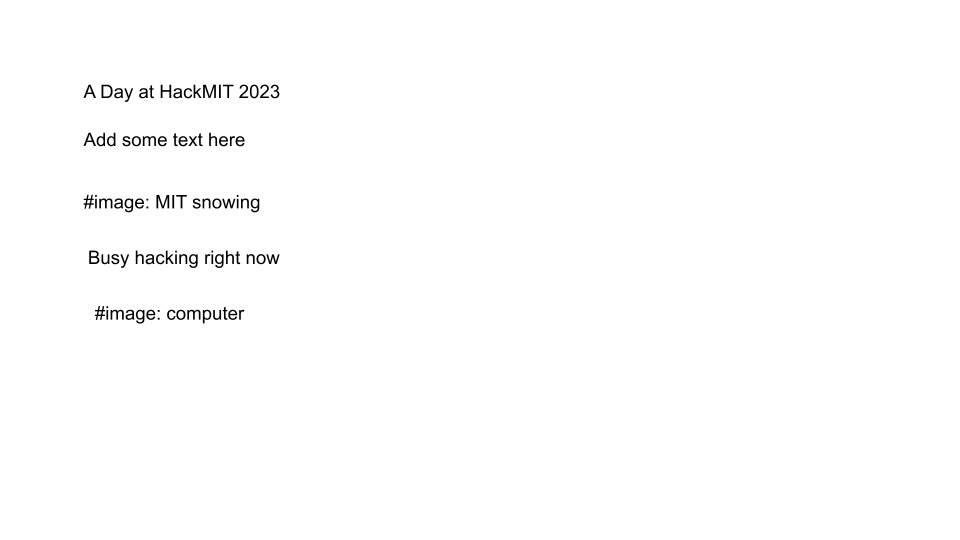
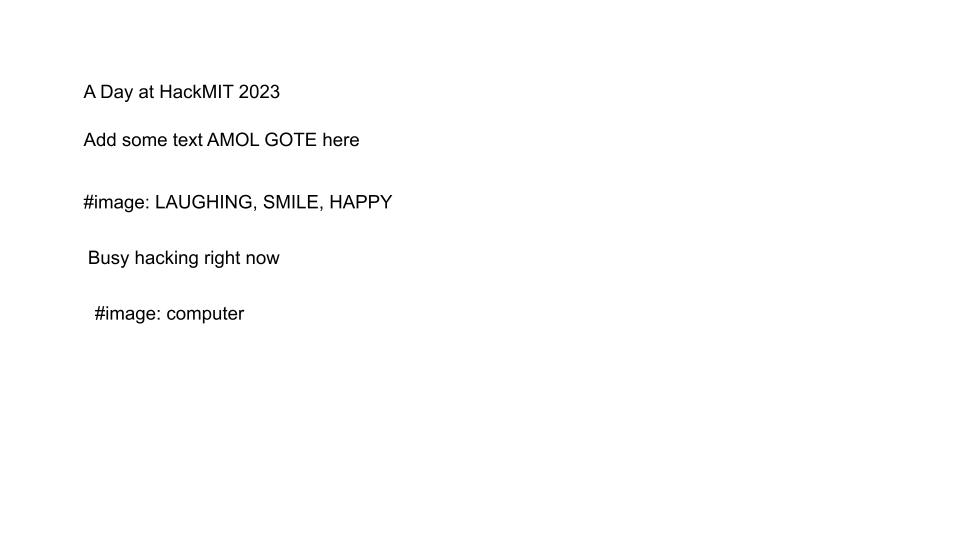
Added image to HTML generation

Changed region(s): [[0.1562, 0.3556, 0.4062, 0.3852], [0.2188, 0.237, 0.375, 0.2667]]

diff --git a/backend/sample_output.html b/backend/sample_output.html
@@ -1,4 +1,4 @@
 
         <html>
             <body>
-    <p>A Day at HackMIT 2023</p><p>Add some text here</p><img src='https://oaidalleapiprodscus.blob.core.windows.net/private/org-dqLUEDrMw0A2DtY4YxgXFBDn/user-q6vCipxIuFmQVunOX5YMfEt2/img-ang0ECWt2UFvkivJle9jxqFh.png?st=2023-09-16T18%3A58%3A20Z&se=2023-09-16T20%3A58%3A20Z&sp=r&sv=2021-08-06&sr=b&rscd=inline&rsct=image/png&skoid=6aaadede-4fb3-4698-a8f6-684d7786b067&sktid=a48cca56-e6da-484e-a814-9c849652bcb3&skt=2023-09-15T23%3A07%3A08Z&ske=2023-09-16T23%3A07%3A08Z&sks=b&skv=2021-08-06&sig=YvKlyvAxkZm%2B7Nnf0cSclx7inWIlFf94D7sGMoTncVk%3D'><p>Busy hacking right now</p><img src='https://oaidalleapiprodscus.blob.core.windows.net/private/org-dqLUEDrMw0A2DtY4YxgXFBDn/user-q6vCipxIuFmQVunOX5YMfEt2/img-nrr7nj7nLVbQGjsfHXfTvGaP.png?st=2023-09-16T18%3A58%3A26Z&se=2023-09-16T20%3A58%3A26Z&sp=r&sv=2021-08-06&sr=b&rscd=inline&rsct=image/png&skoid=6aaadede-4fb3-4698-a8f6-684d7786b067&sktid=a48cca56-e6da-484e-a814-9c849652bcb3&skt=2023-09-15T23%3A05%3A38Z&ske=2023-09-16T23%3A05%3A38Z&sks=b&skv=2021-08-06&sig=Gql4kX9d9tTEu%2BXCTJhW%2B5Ji6rbhDMuMKn6ORZJN7Qg%3D'></body></html>
+    <p>WEBSITE </p><img src='https://oaidalleapiprodscus.blob.core.windows.net/private/org-dqLUEDrMw0A2DtY4YxgXFBDn/user-q6vCipxIuFmQVunOX5YMfEt2/img-VV0I4NTZp2Exp4qTzUAhAlGB.png?st=2023-09-17T02%3A01%3A14Z&se=2023-09-17T04%3A01%3A14Z&sp=r&sv=2021-08-06&sr=b&rscd=inline&rsct=image/png&skoid=6aaadede-4fb3-4698-a8f6-684d7786b067&sktid=a48cca56-e6da-484e-a814-9c849652bcb3&skt=2023-09-16T23%3A21%3A40Z&ske=2023-09-17T23%3A21%3A40Z&sks=b&skv=2021-08-06&sig=3RkquU9gPlncqWVOFeoKRNOke/7FwTAt36V6GYU0u1Q%3D'></body></html>

diff --git a/backend/test_handwriting_to_html.py b/backend/test_handwriting_to_html.py
@@ -1,0 +1,126 @@
+import easyocr
+
+import json
+from pprint import pprint
+
+import time
+
+import cv2
+import numpy as np
+
+from src.render_functions import generate_img_tag, generate_p_tag, get_instructor
+
+
+with open("tempfile.json", "r") as jsonfile:
+    json_data = json.load(jsonfile)
+
+# pprint(json_data)
+
+
+reader = easyocr.Reader(['en']) # this needs to run only once to load the model into memory
+result = reader.readtext('gray.png')
+
+pprint(result)
+
+main_data_dict = {"data":[]}
+
+for item in result:
+    temp_dict = {}
+
+    pprint(item[0])
+
+    temp_dict["p1"] = item[0][0]
+    temp_dict["p2"] = item[0][1]
+    temp_dict["p3"] = item[0][2]
+    temp_dict["p4"] = item[0][3]
+
+    temp_dict["text"] = item[1]
+    temp_dict["confidence"] = item[2]
+
+    main_data_dict["data"].append(temp_dict)
+
+
+class Screen:
+
+    def __init__(self):
+        self.width = 2000
+        self.height = 2000
+        self.background_color = (255, 255, 255)
+
+image = np.ones((Screen().height, Screen().width, 3), dtype=np.uint8)* Screen().background_color
+
+for item in main_data_dict["data"]:
+    pprint(item)
+    pprint(item["text"])
+    pprint(item["p1"])
+    cv2.putText(image, item["text"], (int(item["p1"][0]), int(item["p1"][1])), cv2.FONT_HERSHEY_SIMPLEX, 1, color=(0,0,0))
+    image = image.astype(np.uint16)
+
+curr_string = ""
+
+main_texts_list = []
+
+for i in range(len(main_data_dict["data"])):
+
+    if main_data_dict["data"][i-1]["p4"][1] < main_data_dict["data"][i]["p1"][1]:
+        main_texts_list.append(curr_string)
+        curr_string=""
+
+        print("hi!")
+        # main_texts_list.append(main_data_dict["data"][i]["text"])
+    else:
+        # main_texts_list[-1] += f" {main_data_dict["data"][i]["text"]}"
+        # pass
+        pass
+    curr_string += f"{main_data_dict['data'][i]['text']} "
+
+main_texts_list.append(curr_string)
+
+
+
+image = image.astype(np.uint8)
+
+cv2.imshow("Image", image)
+
+cv2.waitKey()
+cv2.destroyAllWindows()
+
+def generate_html(list_of_html_elements):
+    generated_HTML_code = """
+        <html>
+            <body>
+    """
+
+    for element in list_of_html_elements:
+        generated_HTML_code += element
+
+    generated_HTML_code += "</body></html>"
+
+    return generated_HTML_code
+
+
+main_elements_html = []
+
+pprint(main_texts_list)
+
+for sample_text in main_texts_list:
+
+    if len(sample_text)>0:
+
+        print(f"sample_text: {sample_text}")
+
+        instructor = get_instructor(sample_text)
+
+        if instructor is not None and instructor.upper() in ["#IMAGE", "#IMG", "#LMG"]:
+            print("hi!!!")
+            main_elements_html.append(generate_img_tag(sample_text))
+        else:
+            main_elements_html.append(generate_p_tag(sample_text))
+
+        print("printing `main_texts_list`")
+        print(main_texts_list)
+
+
+with open("sample_output.html", "w") as output_file:
+    output_file.write(generate_html(main_elements_html))
+    output_file.close()

diff --git a/backend/test_azure.py b/backend/test_azure.py
@@ -1,0 +1,54 @@
+from dotenv import load_dotenv
+load_dotenv()
+
+import os
+import azure.ai.vision as sdk
+
+service_options = sdk.VisionServiceOptions("https://hackmit20232.cognitiveservices.azure.com/",
+                                           "5f51d355239543e9900ce4ed624502e0")
+
+vision_source = sdk.VisionSource(
+    url="https://learn.microsoft.com/azure/cognitive-services/computer-vision/media/quickstarts/presentation.png")
+
+analysis_options = sdk.ImageAnalysisOptions()
+
+analysis_options.features = (
+    sdk.ImageAnalysisFeature.CAPTION |
+    sdk.ImageAnalysisFeature.TEXT
+)
+
+analysis_options.language = "en"
+
+analysis_options.gender_neutral_caption = True
+
+image_analyzer = sdk.ImageAnalyzer(service_options, vision_source, analysis_options)
+
+result = image_analyzer.analyze()
+
+print(result)
+
+print(result.reason)
+
+if result.reason == sdk.ImageAnalysisResultReason.ANALYZED:
+
+    if result.caption is not None:
+        print(" Caption:")
+        print("   '{}', Confidence {:.4f}".format(result.caption.content, result.caption.confidence))
+
+    if result.text is not None:
+        print(" Text:")
+        for line in result.text.lines:
+            points_string = "{" + ", ".join([str(int(point)) for point in line.bounding_polygon]) + "}"
+            print("   Line: '{}', Bounding polygon {}".format(line.content, points_string))
+            for word in line.words:
+                points_string = "{" + ", ".join([str(int(point)) for point in word.bounding_polygon]) + "}"
+                print("     Word: '{}', Bounding polygon {}, Confidence {:.4f}"
+                      .format(word.content, points_string, word.confidence))
+
+else:
+
+    error_details = sdk.ImageAnalysisErrorDetails.from_result(result)
+    print(" Analysis failed.")
+    print("   Error reason: {}".format(error_details.reason))
+    print("   Error code: {}".format(error_details.error_code))
+    print("   Error message: {}".format(error_details.message))

diff --git a/backend/test_read_image.py b/backend/test_read_image.py
@@ -8,7 +8,7 @@ import openai
 
 load_dotenv()
 
-IMAGE_FILEPATH = "static\\sample_bw_slide.png"
+IMAGE_FILEPATH = "static\\IMG_2881.jpg"
 
 pytesseract.pytesseract.tesseract_cmd = "C:\\Users\\laure\\Tesseract-Temp\\tesseract.exe"
 
@@ -28,6 +28,8 @@ pprint(img)
  
 # Convert the image to gray scale
 gray = cv2.cvtColor(img, cv2.COLOR_BGR2GRAY)
+
+cv2.imwrite("gray.png", gray)
  
 # Performing OTSU threshold
 ret, thresh1 = cv2.threshold(gray, 0, 255, cv2.THRESH_OTSU | cv2.THRESH_BINARY_INV)
@@ -41,6 +43,8 @@ rect_kernel = cv2.getStructuringElement(cv2.MORPH_RECT, (18, 18))
  
 # Applying dilation on the threshold image
 dilation = cv2.dilate(thresh1, rect_kernel, iterations = 1)
+
+cv2.imwrite("dilation.png", dilation)
 
 # Finding contours
 contours, hierarchy = cv2.findContours(dilation, cv2.RETR_EXTERNAL,
@@ -98,7 +102,7 @@ for sample_text in main_list_text:
 
     instructor = get_instructor(sample_text)
 
-    if instructor == "#image":
+    if instructor.upper() in ["#IMAGE", "#IMG", "#LMG"]:
         main_html_elements.append(generate_img_tag(sample_text))
     else:
         main_html_elements.append(generate_p_tag(sample_text))

diff --git a/backend/src/render_functions.py b/backend/src/render_functions.py
@@ -1,0 +1,37 @@
+import openai
+from dotenv import load_dotenv
+import os
+
+load_dotenv()
+
+
+openai.api_key = os.getenv("X_OPENAI_API_KEY")
+
+
+def generate_p_tag(text_descriptor):
+    return f"<p>{text_descriptor}</p>"
+
+def get_instructor(text_descriptor):
+    potential_instructor = text_descriptor.split(" ")[0]
+    print("potential_instructor")
+    print(potential_instructor)
+    if potential_instructor[0] == '#':
+        return potential_instructor.strip().replace(":", "")
+    else:
+        return None
+    
+def generate_img_tag(text_descriptor):
+
+    print(f"text descriptor: {text_descriptor}")
+
+    response = openai.Image.create(
+        prompt=text_descriptor,
+        n=1,
+        size="256x256"
+        )
+    
+    image_url = response['data'][0]['url']
+    print(image_url)
+
+    return f"<img src='{image_url}'>"
+
